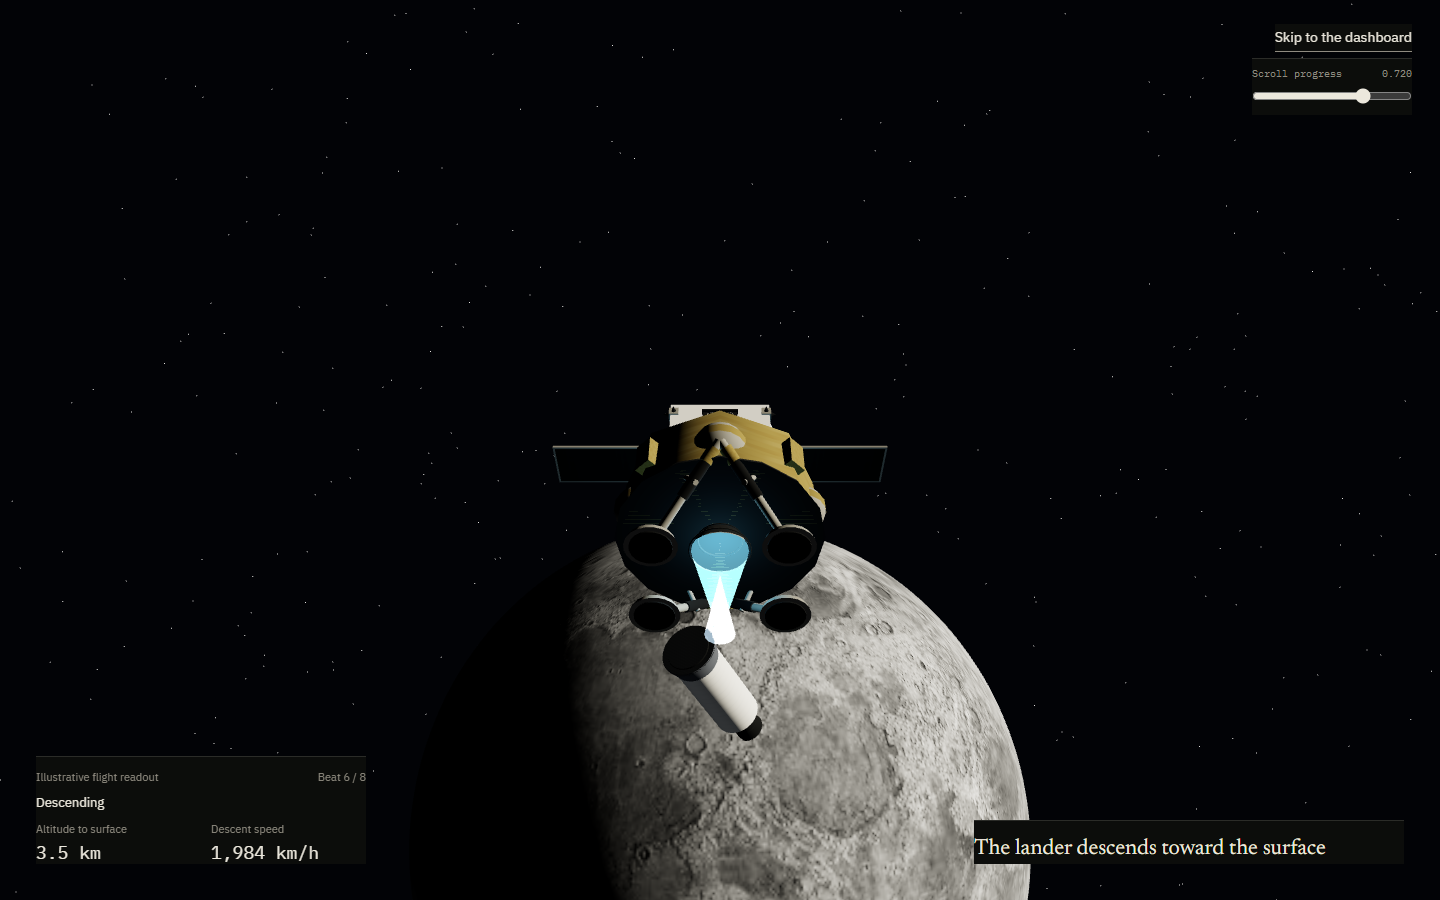
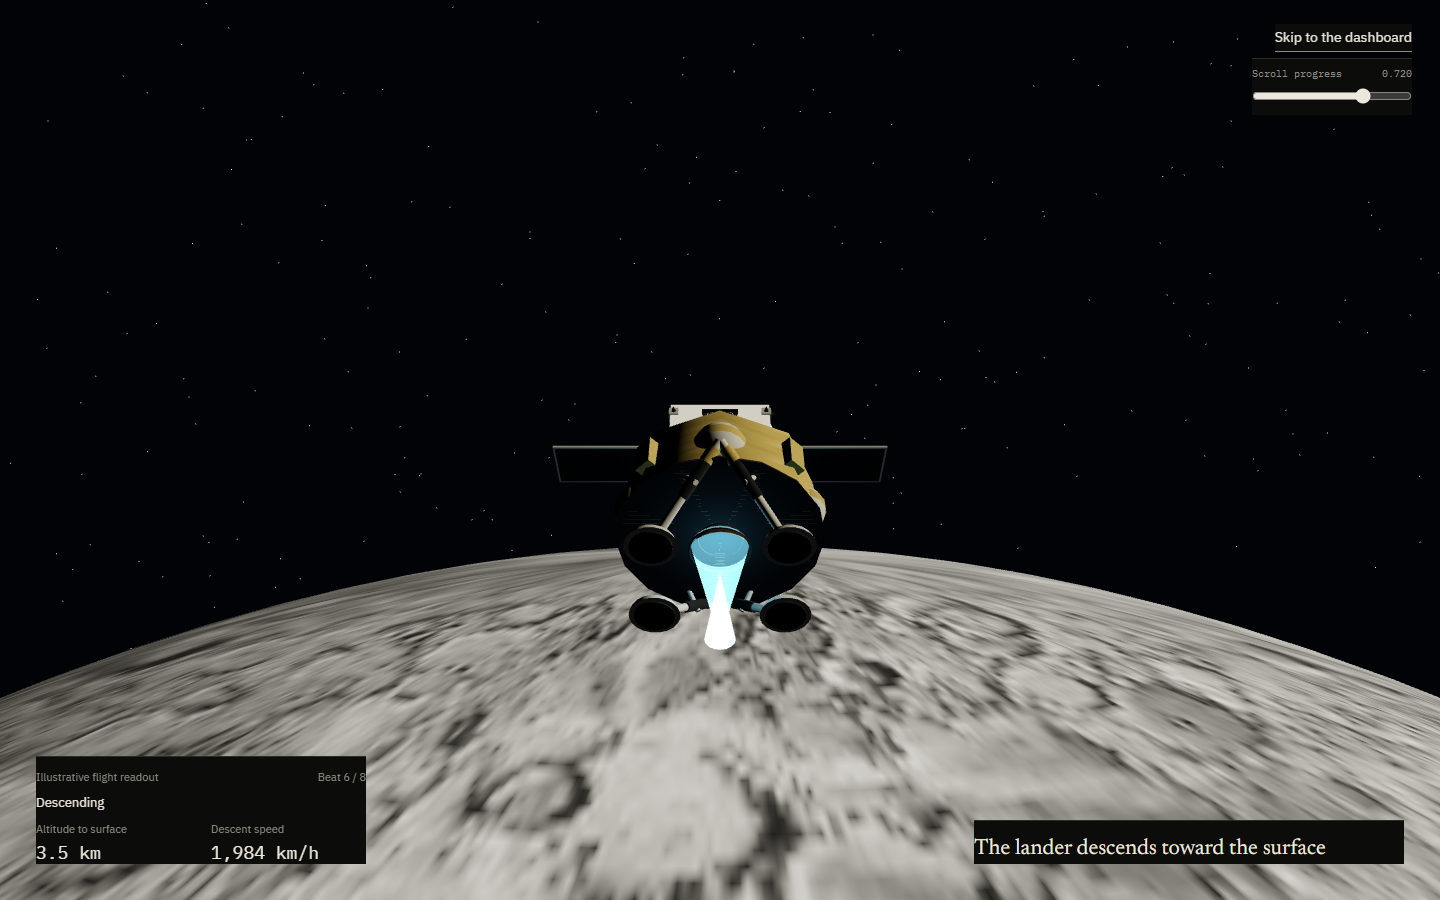
Hide spent upper stage after separation and scale Moon globe for low-altitude descent in Beat 6

Changed region(s): [[0.0, 0.5911, 1.0, 1.0]]

diff --git a/src/scene/models/RocketModel.ts b/src/scene/models/RocketModel.ts
@@ -530,6 +530,7 @@ export class RocketModel {
       );
       this.boosterStage.rotation.z = tBooster * 0.85;
       this.boosterStage.rotation.x = tBooster * 0.45;
+      this.boosterStage.visible = p < 0.52;
     }
 
     // ----------------------------------------------------
@@ -545,6 +546,8 @@ export class RocketModel {
         this.fairingRight.rotation.set(0, 0, 0);
         this.isFairingDetached = false;
       }
+      this.fairingLeft.visible = true;
+      this.fairingRight.visible = true;
     } else {
       if (!this.isFairingDetached && this.sceneRoot) {
         this.sceneRoot.attach(this.fairingLeft);
@@ -572,6 +575,9 @@ export class RocketModel {
         craftWorldPos.z
       );
       this.fairingRight.rotation.set(tumble * 0.4, -tumble, -hingeAngle);
+
+      this.fairingLeft.visible = p < 0.60;
+      this.fairingRight.visible = p < 0.60;
     }
 
     // ----------------------------------------------------
@@ -591,25 +597,37 @@ export class RocketModel {
         this.upperStage.rotation.set(0, 0, 0);
         this.upperStage.scale.set(1, 1, 1);
       }
+      this.upperStage.visible = true;
     } else {
       if (!this.isLanderReleased && this.sceneRoot) {
         this.sceneRoot.attach(this.lander.group);
         this.isLanderReleased = true;
       }
-      // Upper stage and payload adapter fall away backwards into -Y and -Z behind camera
-      const tStage2 = (p - 0.55) / 0.15;
-      const stage2DropY = tStage2 * 14.0 + tStage2 * tStage2 * 35.0;
-      const stage2DropZ = tStage2 * 12.0 + tStage2 * tStage2 * 30.0;
       if (this.upperStage.parent === this.interstage && this.sceneRoot) {
         this.sceneRoot.attach(this.upperStage);
       }
-      this.upperStage.position.set(
-        craftWorldPos.x + Math.sin(tStage2 * 2) * 1.5,
-        craftWorldPos.y + this.boosterHeight + this.interstageHeight - stage2DropY,
-        craftWorldPos.z - stage2DropZ
-      );
-      this.upperStage.rotation.x = tStage2 * 0.7;
-      this.upperStage.rotation.z = tStage2 * 0.35;
+
+      if (p >= 0.62) {
+        // By the end of Beat 5 and throughout Beats 6-8, spent upper stage is completely hidden
+        this.upperStage.visible = false;
+        this.upperStage.scale.set(0, 0, 0);
+      } else {
+        // During Beat 5 (0.55 -> 0.62): drifts away backwards and scales/fades out cleanly
+        this.upperStage.visible = true;
+        const tStage2 = (p - 0.55) / 0.07;
+        const stage2DropY = tStage2 * 18.0 + tStage2 * tStage2 * 45.0;
+        const stage2DropZ = tStage2 * 24.0 + tStage2 * tStage2 * 65.0;
+        const stage2Scale = Math.max(0.001, 1.0 - tStage2);
+
+        this.upperStage.scale.set(stage2Scale, stage2Scale, stage2Scale);
+        this.upperStage.position.set(
+          craftWorldPos.x + Math.sin(tStage2 * 2.5) * 2.5,
+          craftWorldPos.y + this.boosterHeight + this.interstageHeight - stage2DropY,
+          craftWorldPos.z - stage2DropZ
+        );
+        this.upperStage.rotation.x = tStage2 * 0.7;
+        this.upperStage.rotation.z = tStage2 * 0.35;
+      }
     }
   }
 }

diff --git a/src/scene/ThreeConductor.ts b/src/scene/ThreeConductor.ts
@@ -619,15 +619,43 @@ export class ThreeConductor {
     }
 
     // ----------------------------------------------------
-    // BEAT 4 & 5: FAIRING JETTISON, MOON GROWS & LANDER DEPLOY (0.45 - 0.62)
+    // BEAT 4, 5 & 6: APPROACH MOON & POWERED DESCENT (0.50 - 0.80)
     // ----------------------------------------------------
-    // Photorealistic NASA LRO Moon globe slowly grows in distance ahead along flight vector (p: 0.50 -> 0.80)
+    // Photorealistic NASA LRO Moon globe: grows in deep space during translunar cruise (0.50 - 0.62)
+    // and scales up to fill the lower half of the viewport during low-altitude powered descent (0.62 - 0.80)
     this.atmosphere.approachMoon.visible = p >= 0.50 && p < 0.80;
     if (this.atmosphere.approachMoon.visible) {
-      const moonGrow = seg(p, 0.50, 0.80);
-      const moonScale = THREE.MathUtils.lerp(0.18, 2.0, Math.pow(moonGrow, 1.7));
-      const moonY = THREE.MathUtils.lerp(this._craftState.landerWorldPos.y + 2, -22, ease(moonGrow));
-      const moonZ = THREE.MathUtils.lerp(-240, -42, ease(moonGrow));
+      let moonScale = 0.20;
+      let moonY = 0;
+      let moonZ = -240.0;
+
+      if (p < 0.62) {
+        // Deep-space translunar approach (0.50 -> 0.62):
+        // Moon globe grows from distant speck to lunar orbit entry
+        const approachT = seg(p, 0.50, 0.62);
+        moonScale = THREE.MathUtils.lerp(0.20, 2.0, Math.pow(approachT, 1.5));
+        const moonR = 22.0 * moonScale;
+        const crestOffsetY = THREE.MathUtils.lerp(18.0, 7.5, ease(approachT));
+        const horizonCrestY = this._craftState.landerWorldPos.y - crestOffsetY;
+        moonY = horizonCrestY - moonR;
+        moonZ = THREE.MathUtils.lerp(-240.0, -95.0, ease(approachT));
+      } else {
+        // Beat 6: Low-altitude lunar powered descent (0.62 -> 0.80, altitude 15.0 km -> 150 m)
+        // Scale up Moon sphere and move closer so its curved horizon fills the lower half of the viewport
+        const descentT = seg(p, 0.62, 0.80);
+        moonScale = THREE.MathUtils.lerp(2.0, 8.2, ease(descentT));
+        const moonR = 22.0 * moonScale;
+
+        // Crest of the lunar horizon stays framed directly below the descending lander and thrusters
+        const crestOffsetY = THREE.MathUtils.lerp(7.5, 4.2, descentT);
+        const horizonCrestY = this._craftState.landerWorldPos.y - crestOffsetY;
+        moonY = horizonCrestY - moonR;
+
+        // Front of lunar globe moves close behind lander flight path
+        const targetMoonZ = this._craftState.landerWorldPos.z - 10.0 - moonR * 0.12;
+        moonZ = THREE.MathUtils.lerp(-95.0, targetMoonZ, ease(descentT));
+      }
+
       this.atmosphere.approachMoon.scale.set(moonScale, moonScale, moonScale);
       this.atmosphere.approachMoon.position.set(0, moonY, moonZ);
     }

diff --git a/src/scene/kinematics/flightKinematics.ts b/src/scene/kinematics/flightKinematics.ts
@@ -279,15 +279,15 @@ export function computeCraftState(
     upperStageWorldPos.set(craftRigX, upperStageBaseY, craftRigZ);
     upperStageWorldRot.set(0, 0, 0);
   } else {
-    const tUpper = (p - 0.55) / 0.15;
-    const upperDrop = tUpper * 10.0 + tUpper * tUpper * 26.0;
+    const tUpper = Math.min(1.0, Math.max(0.0, (p - 0.55) / 0.07));
+    const upperDrop = tUpper * 18.0 + tUpper * tUpper * 45.0;
 
     upperStageWorldPos.set(
-      craftRigX + Math.sin(tUpper * 2) * 1.2,
+      craftRigX + Math.sin(tUpper * 2.5) * 2.5,
       upperStageBaseY - upperDrop,
-      craftRigZ - upperDrop * 0.4
+      craftRigZ - (tUpper * 24.0 + tUpper * tUpper * 65.0)
     );
-    upperStageWorldRot.set(tUpper * 0.65, 0, tUpper * 0.35);
+    upperStageWorldRot.set(tUpper * 0.7, 0, tUpper * 0.35);
   }
 
   // Gentle spacecraft axial roll during translunar coast (barbecue thermal roll)
